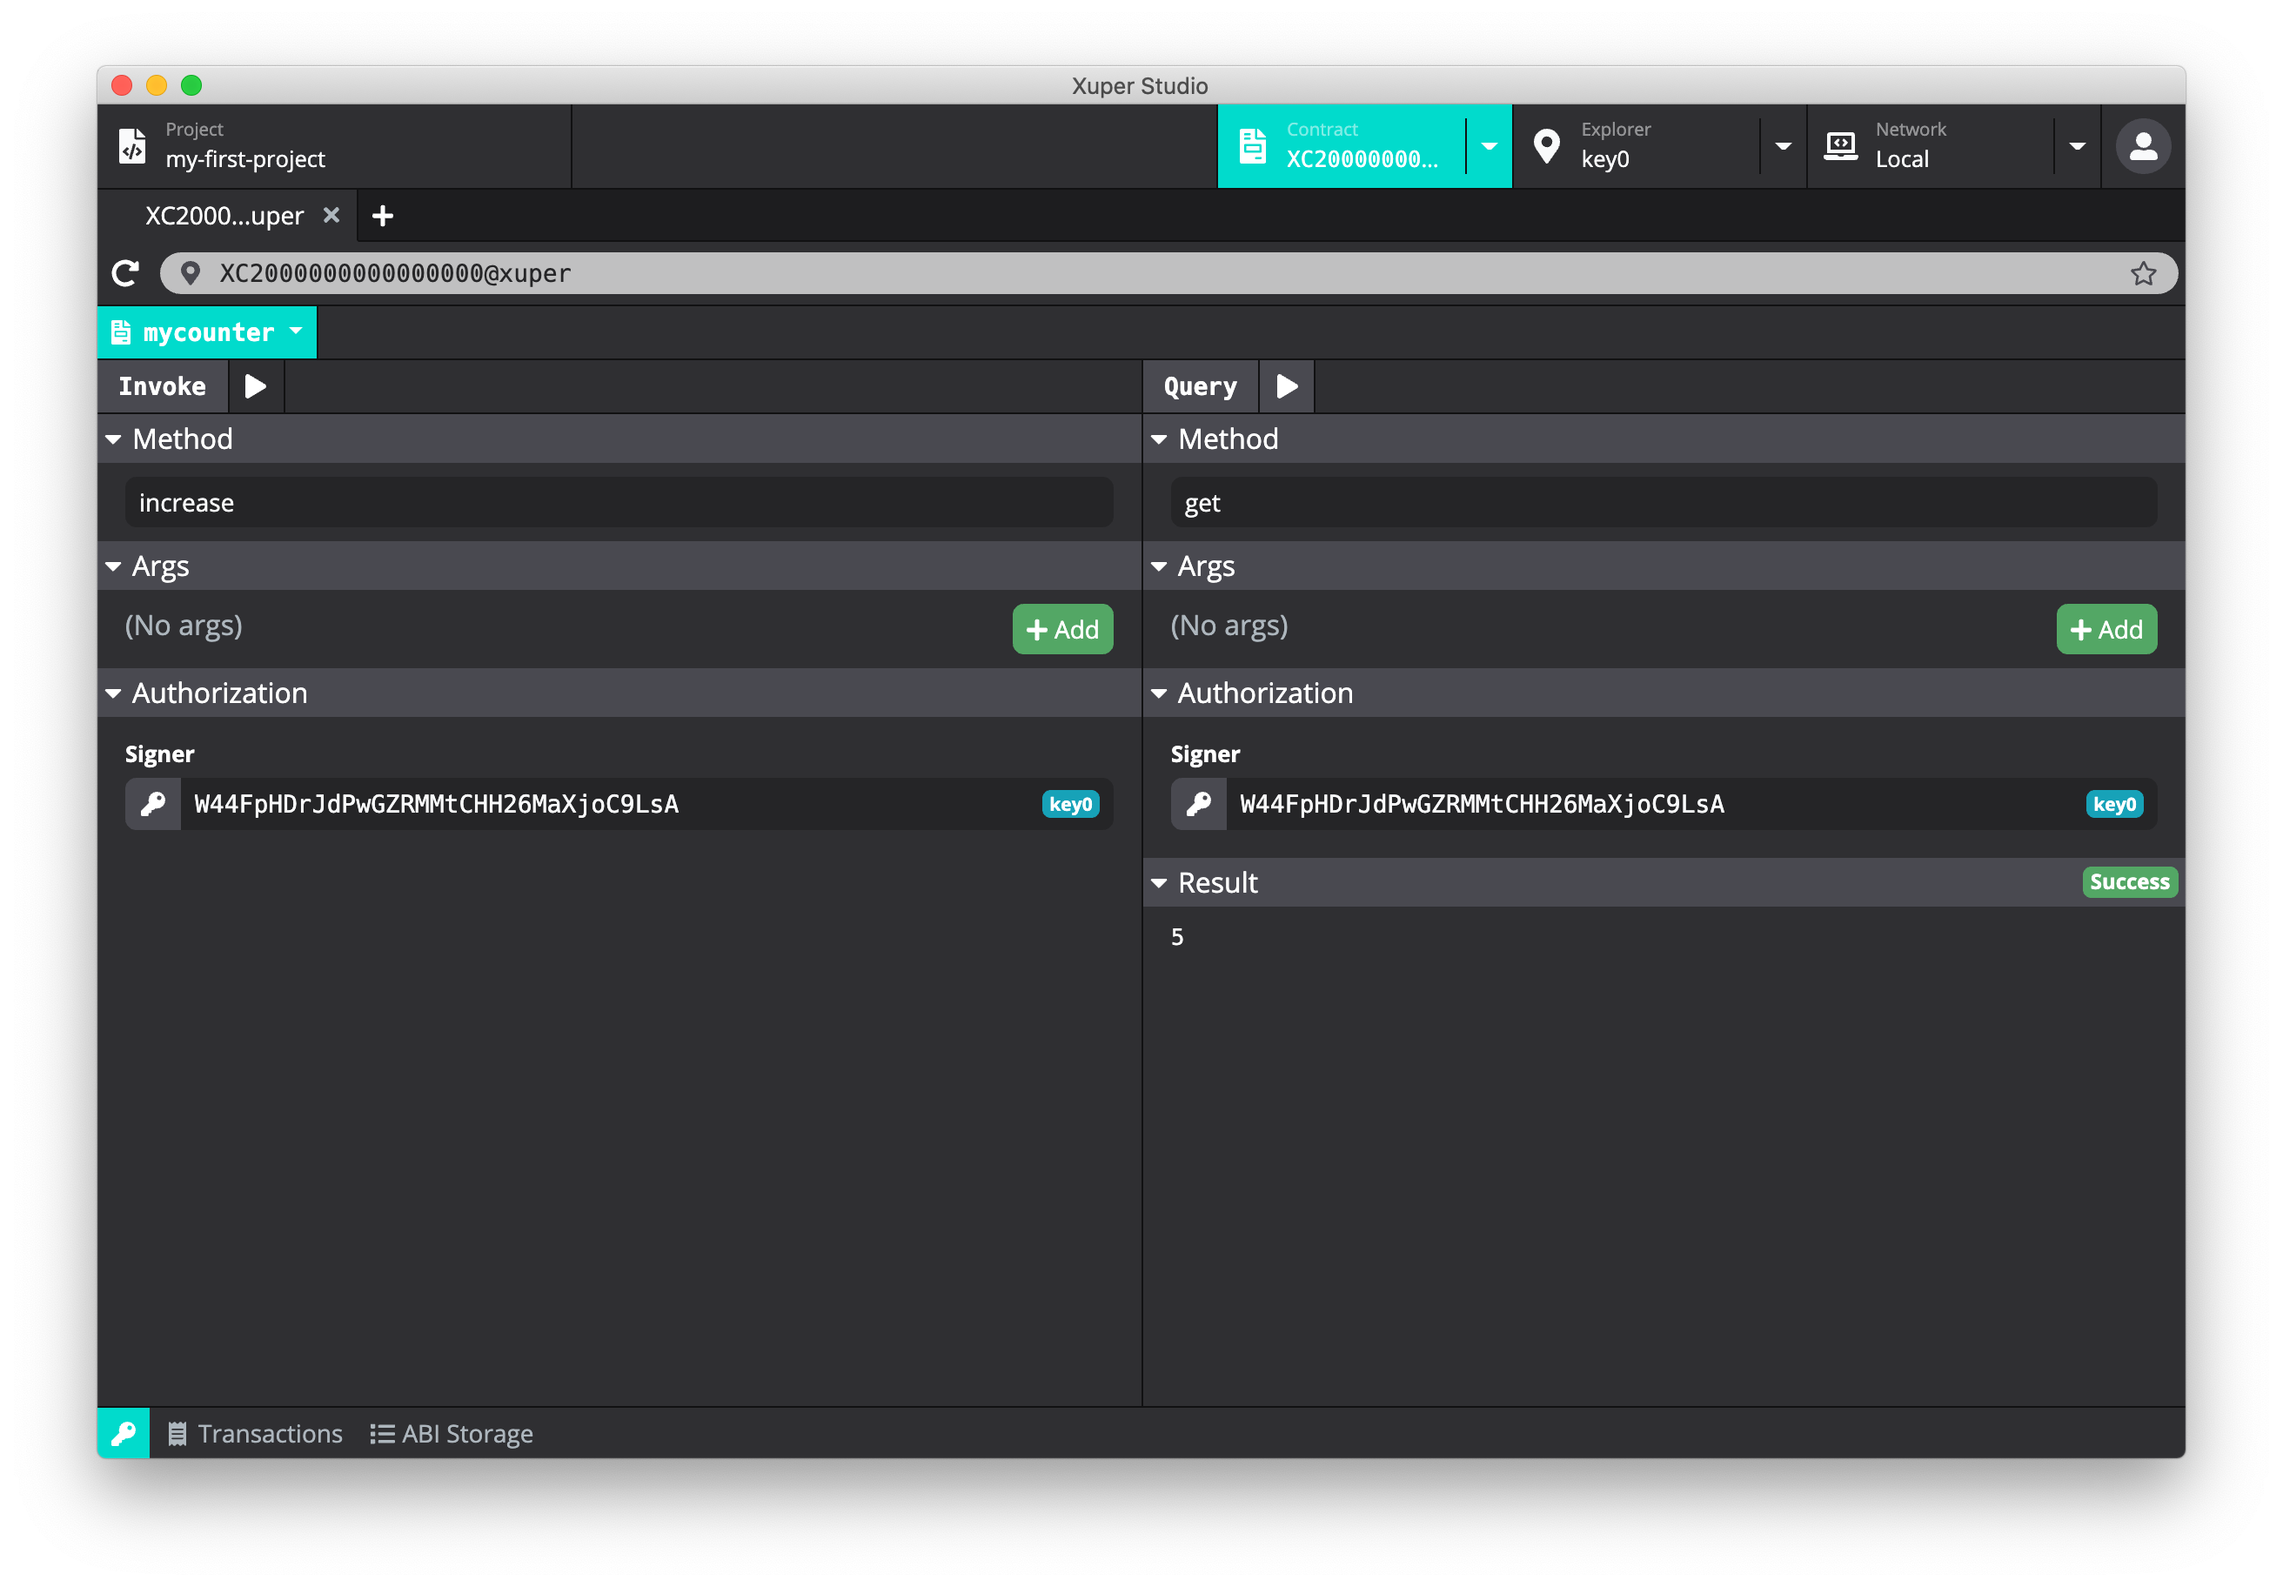
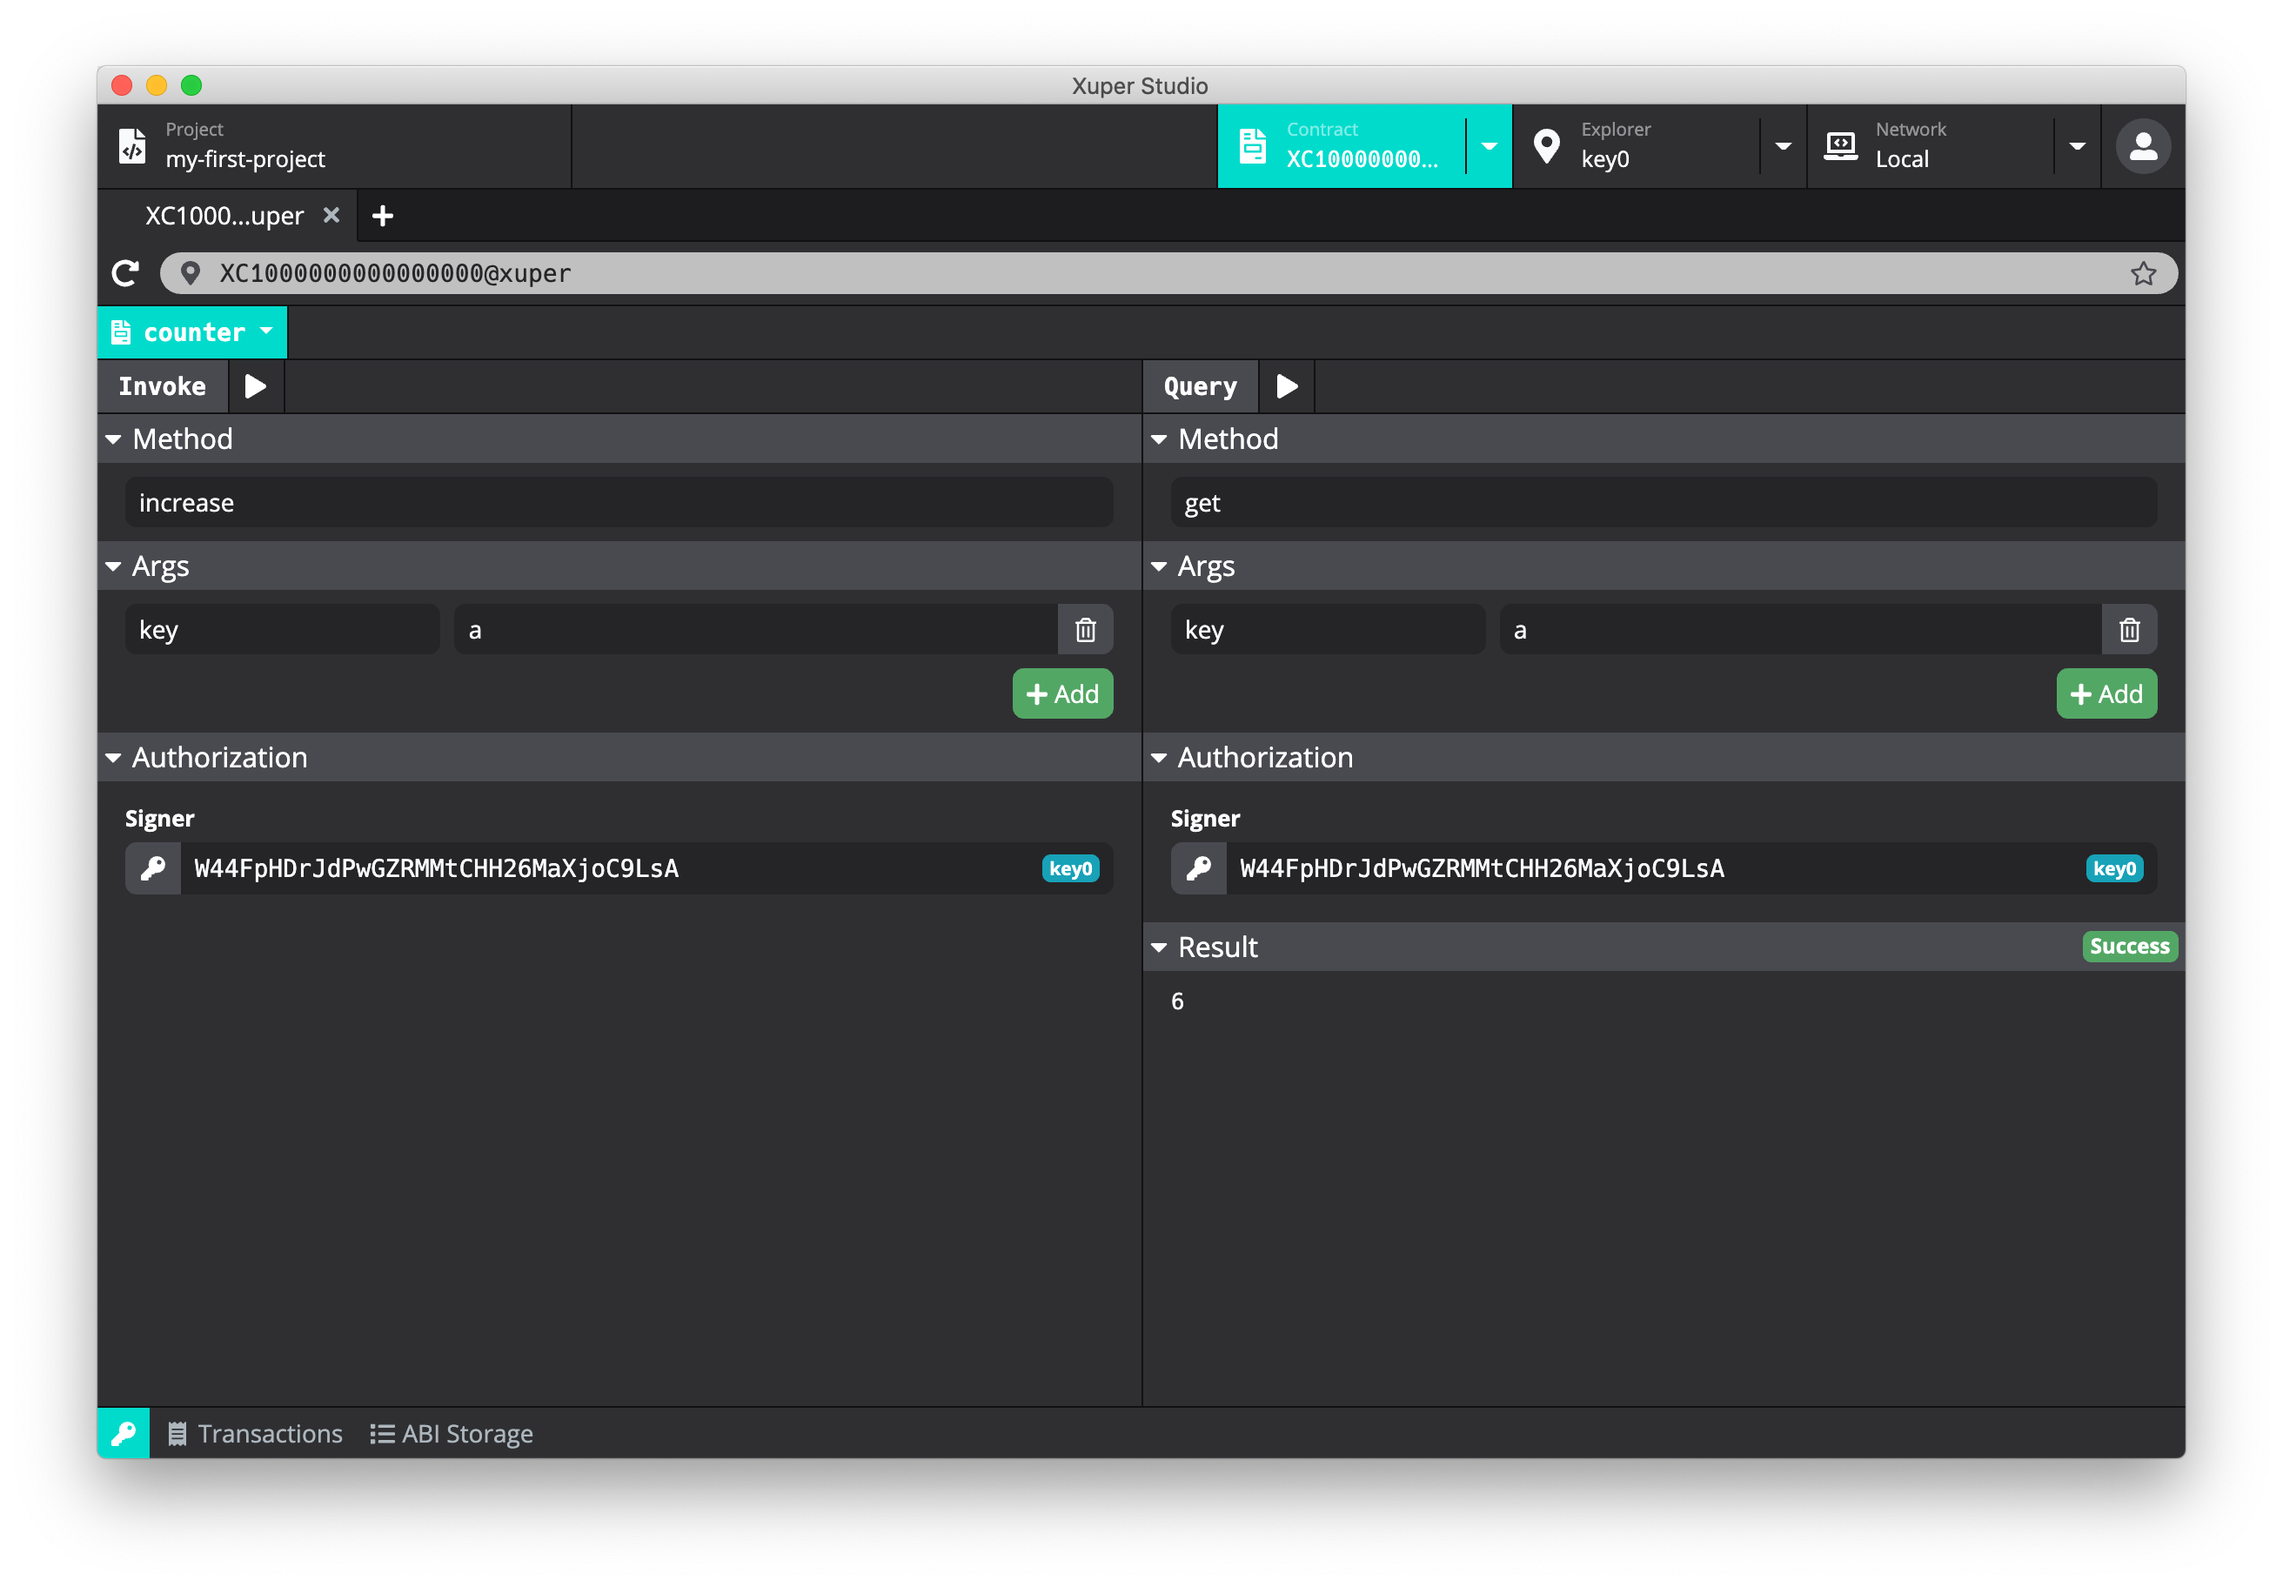
docs: update doc

Changed region(s): [[0.0312, 0.375, 0.9688, 0.625], [0.5312, 0.2188, 0.5938, 0.2812], [0.0625, 0.1875, 0.1562, 0.25]]

diff --git a/README.md b/README.md
@@ -140,9 +140,9 @@ Xuper Studio 会自动读取合约 ABI 中的 functions，并为每个 function 
   <img src="./screenshots/contract.png" width="720px">
 </p>
 
-接下来我们开始调用部署好的合约。在 *Invoke* 侧的 *Method* 中填入 `increase`，由于 `increase` 方法并没有参数，将在 *Args* 下的输入框都删除，在 *Authorization* 的 *Signer* 中选择地址，点击上方的执行按钮。完成交易后，我们可以看到成功执行的结果。
+接下来我们开始调用部署好的合约。在 *Invoke* 侧的 *Method* 中填入 `increase`，由于 `increase` 方法需要一个参数 `key`，将在 *Args* 下的输入框中留下一个参数，并在左边填入 `key` 右边填入 `a`，在 *Authorization* 的 *Signer* 中选择地址，点击上方的执行按钮。完成交易后，我们可以看到成功执行的结果。合约会根据传入的 `key` 参数来增加 counter 的值。
 
-在右边的 *Query* 的 *Method* 中填入 `get`，同样由于 `get` 方法没有参数，将 *Args* 下的输入框删除，点击执行按钮，在下方 *Result* 中可以看到查询的结果，即计数器当前的值。
+在右边的 *Query* 的 *Method* 中填入 `get`，将在 *Args* 下的输入框中留下一个参数，并在左边填入 `key` 右边填入 `a`，点击执行按钮，在下方 *Result* 中可以看到查询的结果，即计数器当前的值。
 
 多次调用 `increase` 并通过 `get` 查询可以看到计数器根据调用 `increase` 的次数发生变化。
 
